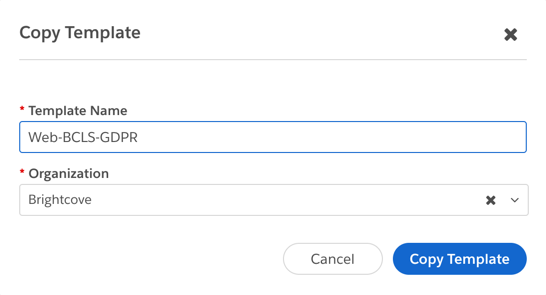
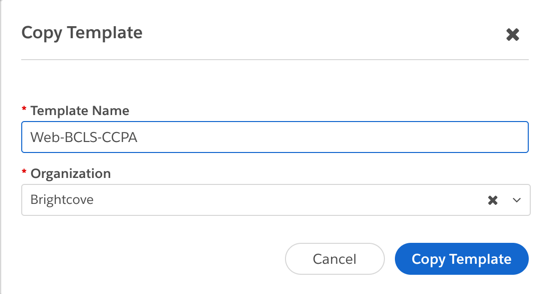
WIP: Managing Cookie Consent Using OneTrust doc

diff --git a/_site/general/managing-cookie-consent.html b/_site/general/managing-cookie-consent.html
@@ -1398,7 +1398,7 @@ function doGTranslate(lang_pair) {if(lang_pair.value)lang_pair=lang_pair.value;i
 
   <section class="bcls-section">
     <h2 id="section-name">Introduction</h2>
-    <p></p>
+    <p>This document is an introduction to get you started with OneTrust cookie compliance. For complete details see the <a href="https://my.onetrust.com/s/topic/0TO1Q000000ItRyWAK/cookie-compliance">Cookie Compliance</a> section of documentation at OneTrust.</p>
   </section>
 
   <section class="bcls-section">
@@ -1426,14 +1426,29 @@ function doGTranslate(lang_pair) {if(lang_pair.value)lang_pair=lang_pair.value;i
           <img class="bcls-image" src="/assets/images/general/managing-cookie-consent/copy-template.png" alt="copy template">
         </figure>
       </li>
-      <li>Provide a name for your template and click <strong>Copy Template</strong>. You might have several templates, so meaningful names are important, like <strong>Web-[CustomerName]-GDPR</strong>.
+      <li>Provide a name for your template and click <strong>Copy Template</strong>. You might have several templates, so meaningful names are important, like <strong>Web-[CustomerName]-CCPA</strong>.
         <figure class="bcls-figure">
           <img class="bcls-image" src="/assets/images/general/managing-cookie-consent/name-template.png" alt="name template">
         </figure>
       </li>
-      <li></li>
-      <li></li>
-      <li></li>
+      <li>Check to be sure the <strong>Template Details</strong> page opens to the <strong>Banner</strong> tab.
+        <figure class="bcls-figure">
+          <img class="bcls-image" src="/assets/images/general/managing-cookie-consent/details-banner-tab.png" alt="/details banner tab">
+        </figure>
+      </li>
+      <li>You can customize the sections of your template. Watch the following video (less than 2 minutes) to get an intrduction to the process.
+        <div class="training-video-player-ipx" data-experience="5a73630f7afd7a00101bc1b5" data-video-ids="1721594044471954993">&nbsp;</div>
+        <script src="https://players.brightcove.net/20318290001/experience_5a73630f7afd7a00101bc1b5/live.js"></script>
+      </li>
+      <li>To start the process, create a new rule by:
+        <ol type="a">
+          <li>In the left navigation click <strong>Geolocation Rules</strong>.</li>
+          <li>Click <strong>Create New</strong>.</li>
+          <li></li>
+          <li></li>
+          <li></li>
+        </ol>
+      </li>
       <li></li>
       <li></li>
       <li></li>
@@ -1480,7 +1495,7 @@ function doGTranslate(lang_pair) {if(lang_pair.value)lang_pair=lang_pair.value;i
 
 <hr>
 <div id="last_updated" class="last-updated">
-  Page last updated on 06 Jan 2022
+  Page last updated on 10 Jan 2022
 </div>
 
 

diff --git a/general/managing-cookie-consent.html b/general/managing-cookie-consent.html
@@ -9,7 +9,7 @@ parent: "General Information"
 
   <section class="bcls-section">
     <h2 id="section-name">Introduction</h2>
-    <p></p>
+    <p>This document is an introduction to get you started with OneTrust cookie compliance. For complete details see the <a href="https://my.onetrust.com/s/topic/0TO1Q000000ItRyWAK/cookie-compliance">Cookie Compliance</a> section of documentation at OneTrust.</p>
   </section>
 
   <section class="bcls-section">
@@ -37,14 +37,29 @@ parent: "General Information"
           <img class="bcls-image" src="/assets/images/general/managing-cookie-consent/copy-template.png" alt="copy template">
         </figure>
       </li>
-      <li>Provide a name for your template and click <strong>Copy Template</strong>. You might have several templates, so meaningful names are important, like <strong>Web-[CustomerName]-GDPR</strong>.
+      <li>Provide a name for your template and click <strong>Copy Template</strong>. You might have several templates, so meaningful names are important, like <strong>Web-[CustomerName]-CCPA</strong>.
         <figure class="bcls-figure">
           <img class="bcls-image" src="/assets/images/general/managing-cookie-consent/name-template.png" alt="name template">
         </figure>
       </li>
-      <li></li>
-      <li></li>
-      <li></li>
+      <li>Check to be sure the <strong>Template Details</strong> page opens to the <strong>Banner</strong> tab.
+        <figure class="bcls-figure">
+          <img class="bcls-image" src="/assets/images/general/managing-cookie-consent/details-banner-tab.png" alt="/details banner tab">
+        </figure>
+      </li>
+      <li>You can customize the sections of your template. Watch the following video (less than 2 minutes) to get an intrduction to the process.
+        <div class="training-video-player-ipx" data-experience="5a73630f7afd7a00101bc1b5" data-video-ids="1721594044471954993">&nbsp;</div>
+        <script src="https://players.brightcove.net/20318290001/experience_5a73630f7afd7a00101bc1b5/live.js"></script>
+      </li>
+      <li>To start the process, create a new rule by:
+        <ol type="a">
+          <li>In the left navigation click <strong>Geolocation Rules</strong>.</li>
+          <li>Click <strong>Create New</strong>.</li>
+          <li></li>
+          <li></li>
+          <li></li>
+        </ol>
+      </li>
       <li></li>
       <li></li>
       <li></li>
